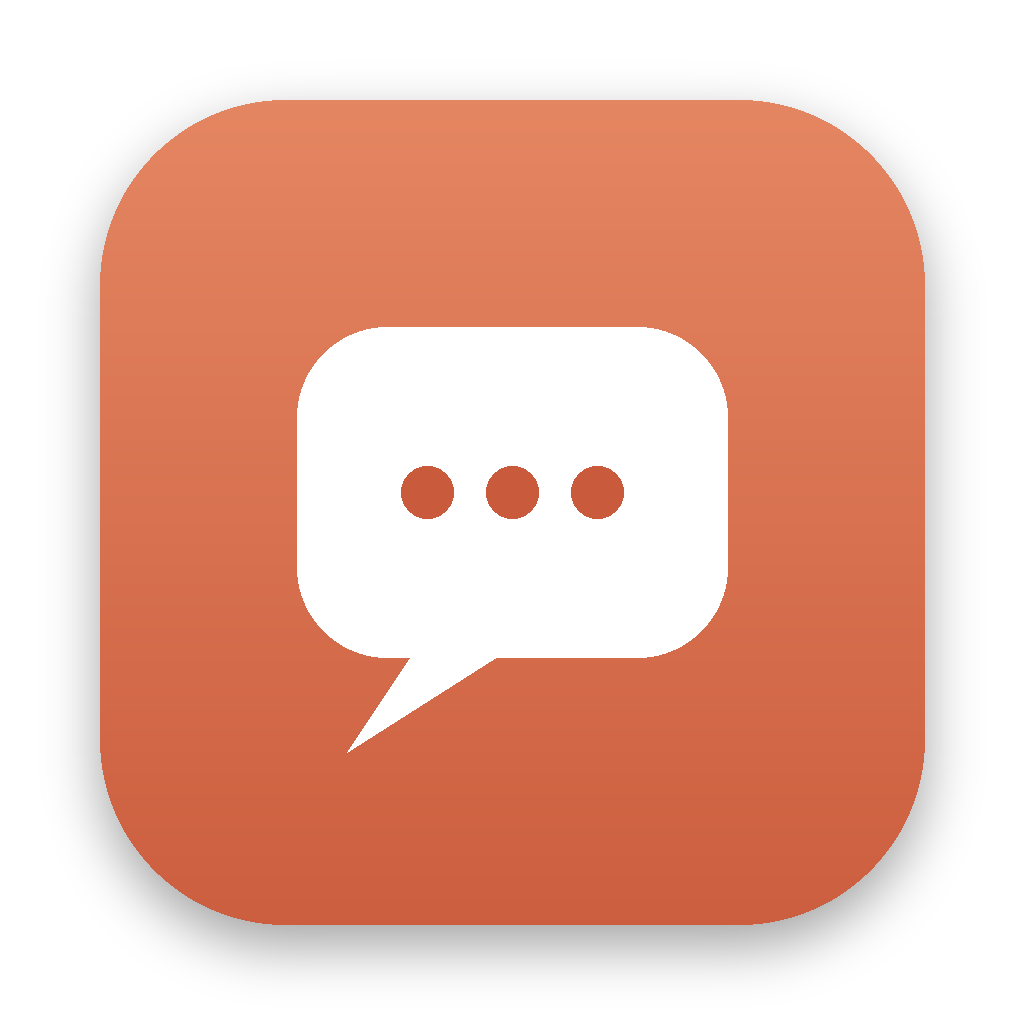
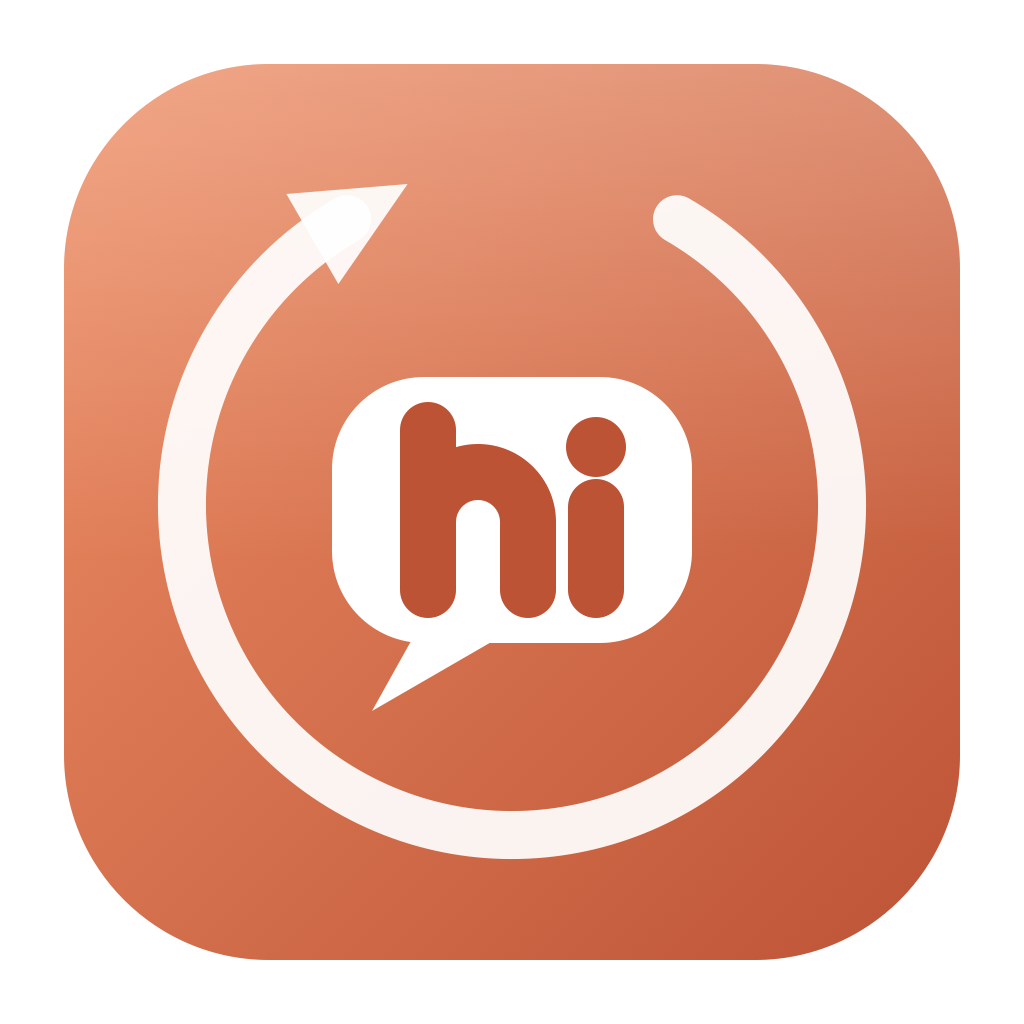
feat: ícone balão+ciclo com master CoreGraphics e glifo próprio na barra

diff --git a/scripts/render-appicon.swift b/scripts/render-appicon.swift
@@ -1,0 +1,109 @@
+// Gera o master do ícone do app (1024×1024, fundo transparente).
+// Fonte canônica do desenho: balão do "hi" envolvido pelo arco de renovação.
+// Uso: swift scripts/render-appicon.swift assets/AppIcon.png
+import CoreGraphics
+import ImageIO
+import Foundation
+import UniformTypeIdentifiers
+
+let size = 1024
+// Coordenadas de desenho em y para cima (origem embaixo à esquerda);
+// yCG(_) converte medidas tiradas do rascunho (y para baixo).
+func yCG(_ y: CGFloat) -> CGFloat { CGFloat(size) - y }
+
+guard CommandLine.arguments.count == 2 else {
+    FileHandle.standardError.write(Data("uso: render-appicon.swift <saída.png>\n".utf8))
+    exit(1)
+}
+let outURL = URL(fileURLWithPath: CommandLine.arguments[1])
+
+let space = CGColorSpace(name: CGColorSpace.sRGB)!
+let ctx = CGContext(data: nil, width: size, height: size,
+                    bitsPerComponent: 8, bytesPerRow: 0, space: space,
+                    bitmapInfo: CGImageAlphaInfo.premultipliedLast.rawValue)!
+
+func cor(_ hex: UInt32, _ alpha: CGFloat = 1) -> CGColor {
+    CGColor(srgbRed: CGFloat((hex >> 16) & 0xFF) / 255,
+            green: CGFloat((hex >> 8) & 0xFF) / 255,
+            blue: CGFloat(hex & 0xFF) / 255, alpha: alpha)
+}
+let terracotaClaro = cor(0xEE8F66)
+let terracotaEscuro = cor(0xBC5335)
+let branco = cor(0xFFFFFF)
+
+// Quadrado arredondado de fundo com gradiente diagonal + luz no topo
+let quadro = CGRect(x: 64, y: 64, width: 896, height: 896)
+let squircle = CGPath(roundedRect: quadro, cornerWidth: 205, cornerHeight: 205, transform: nil)
+
+ctx.saveGState()
+ctx.addPath(squircle)
+ctx.clip()
+ctx.drawLinearGradient(
+    CGGradient(colorsSpace: space, colors: [terracotaClaro, terracotaEscuro] as CFArray,
+               locations: [0, 1])!,
+    start: CGPoint(x: 64, y: yCG(64)), end: CGPoint(x: 960, y: yCG(960)), options: [])
+ctx.drawLinearGradient(
+    CGGradient(colorsSpace: space,
+               colors: [cor(0xFFFFFF, 0.22), cor(0xFFFFFF, 0)] as CFArray,
+               locations: [0, 1])!,
+    start: CGPoint(x: 512, y: yCG(64)), end: CGPoint(x: 512, y: yCG(557)), options: [])
+ctx.restoreGState()
+
+// Arco de renovação: 300° em sentido horário, folga no topo para a seta
+let centroArco = CGPoint(x: 512, y: yCG(505))
+ctx.setStrokeColor(cor(0xFFFFFF, 0.92))
+ctx.setLineWidth(48)
+ctx.setLineCap(.round)
+ctx.addArc(center: centroArco, radius: 330,
+           startAngle: .pi / 3, endAngle: 2 * .pi / 3, clockwise: true)
+ctx.strokePath()
+
+// Ponta da seta no fim do arco (11h), apontando para a folga
+ctx.saveGState()
+ctx.translateBy(x: 347, y: yCG(219))
+ctx.rotate(by: .pi / 6)
+ctx.setFillColor(cor(0xFFFFFF, 0.92))
+ctx.move(to: CGPoint(x: 70, y: 0))
+ctx.addLine(to: CGPoint(x: -40, y: 52))
+ctx.addLine(to: CGPoint(x: -40, y: -52))
+ctx.closePath()
+ctx.fillPath()
+ctx.restoreGState()
+
+// Balão do hi com rabinho
+ctx.setFillColor(branco)
+ctx.addPath(CGPath(roundedRect: CGRect(x: 332, y: yCG(643), width: 360, height: 266),
+                   cornerWidth: 92, cornerHeight: 92, transform: nil))
+ctx.fillPath()
+ctx.move(to: CGPoint(x: 420, y: yCG(625)))
+ctx.addLine(to: CGPoint(x: 372, y: yCG(711)))
+ctx.addLine(to: CGPoint(x: 500, y: yCG(637)))
+ctx.closePath()
+ctx.fillPath()
+
+// "hi" desenhado como traços (independe de fonte instalada)
+ctx.setStrokeColor(terracotaEscuro)
+ctx.setLineWidth(56)
+ctx.setLineCap(.round)
+ctx.move(to: CGPoint(x: 428, y: yCG(430)))            // haste do h
+ctx.addLine(to: CGPoint(x: 428, y: yCG(590)))
+ctx.strokePath()
+ctx.move(to: CGPoint(x: 428, y: yCG(522)))            // arco do h
+ctx.addArc(center: CGPoint(x: 478, y: yCG(522)), radius: 50,
+           startAngle: .pi, endAngle: 0, clockwise: true)
+ctx.addLine(to: CGPoint(x: 528, y: yCG(590)))
+ctx.strokePath()
+ctx.move(to: CGPoint(x: 596, y: yCG(507)))            // haste do i
+ctx.addLine(to: CGPoint(x: 596, y: yCG(590)))
+ctx.strokePath()
+ctx.setFillColor(terracotaEscuro)                     // pingo do i
+ctx.fillEllipse(in: CGRect(x: 596 - 30, y: yCG(447) - 30, width: 60, height: 60))
+
+let imagem = ctx.makeImage()!
+let destino = CGImageDestinationCreateWithURL(outURL as CFURL, UTType.png.identifier as CFString, 1, nil)!
+CGImageDestinationAddImage(destino, imagem, nil)
+guard CGImageDestinationFinalize(destino) else {
+    FileHandle.standardError.write(Data("falha ao gravar \(outURL.path)\n".utf8))
+    exit(1)
+}
+print("gerado: \(outURL.path)")

diff --git a/Sources/HiClaude/MenuBarGlyph.swift b/Sources/HiClaude/MenuBarGlyph.swift
@@ -1,0 +1,103 @@
+import AppKit
+
+/// Glifo próprio da barra de menu: o balão do hi envolvido pelo arco de
+/// renovação, em três estados — contorno (ocioso), preenchido (Janela ativa)
+/// e exclamação no balão (problema). Template image: a barra tinge conforme
+/// o tema; pausado continua sendo opacidade aplicada pela view.
+enum MenuBarGlyph {
+    enum State: CaseIterable {
+        case idle, active, problem
+
+        /// Mesma prioridade do símbolo antigo: problema > janela ativa > ocioso.
+        init(hasProblem: Bool, hasActiveWindow: Bool) {
+            if hasProblem { self = .problem }
+            else if hasActiveWindow { self = .active }
+            else { self = .idle }
+        }
+    }
+
+    static func image(for state: State) -> NSImage {
+        let image = NSImage(size: NSSize(width: 18, height: 18), flipped: true) { _ in
+            NSColor.black.setFill()
+            NSColor.black.setStroke()
+            switch state {
+            case .idle: drawCycle(); drawBubble(filled: false)
+            case .active: drawCycle(); drawBubble(filled: true)
+            case .problem: drawProblemBubble()
+            }
+            return true
+        }
+        image.isTemplate = true
+        return image
+    }
+
+    /// Arco de renovação (290° em sentido horário) com seta apontando para a
+    /// folga no topo. Coordenadas em y para baixo (imagem flipped).
+    private static func drawCycle() {
+        let center = NSPoint(x: 9, y: 9)
+        let radius: CGFloat = 6.15
+        let arc = NSBezierPath()
+        // Ângulos no espaço já invertido: crescer o ângulo = horário na tela.
+        arc.appendArc(withCenter: center, radius: radius,
+                      startAngle: -55, endAngle: 235, clockwise: false)
+        arc.lineWidth = 1.45
+        arc.lineCapStyle = .round
+        arc.stroke()
+
+        // Ponta da seta no fim do arco (11h), tangente ao sentido do giro.
+        let end = NSPoint(x: center.x + radius * cos(235 * .pi / 180),
+                          y: center.y + radius * sin(235 * .pi / 180))
+        let head = NSBezierPath()
+        head.move(to: NSPoint(x: 1.8, y: 0))
+        head.line(to: NSPoint(x: -1.1, y: 1.4))
+        head.line(to: NSPoint(x: -1.1, y: -1.4))
+        head.close()
+        var transform = AffineTransform(translationByX: end.x, byY: end.y)
+        transform.rotate(byDegrees: -35)
+        head.transform(using: transform)
+        head.fill()
+    }
+
+    /// Balão pequeno dentro do arco, com rabinho; contorno ou preenchido.
+    private static func drawBubble(filled: Bool) {
+        let tail = NSBezierPath()
+        tail.move(to: NSPoint(x: 7.1, y: 11.1))
+        tail.line(to: NSPoint(x: 6.3, y: 12.9))
+        tail.line(to: NSPoint(x: 8.7, y: 11.3))
+        tail.close()
+        tail.fill()
+
+        if filled {
+            NSBezierPath(roundedRect: NSRect(x: 5.55, y: 6.45, width: 6.9, height: 4.8),
+                         xRadius: 1.5, yRadius: 1.5).fill()
+        } else {
+            let outline = NSBezierPath(
+                roundedRect: NSRect(x: 6.1, y: 7.0, width: 5.8, height: 3.7),
+                xRadius: 1.2, yRadius: 1.2)
+            outline.lineWidth = 1.1
+            outline.stroke()
+        }
+    }
+
+    /// Estado de problema: balão grande com exclamação vazada, sem arco —
+    /// a ausência do ciclo também sinaliza que a renovação não está girando.
+    private static func drawProblemBubble() {
+        let bubble = NSBezierPath(
+            roundedRect: NSRect(x: 3, y: 3.4, width: 12, height: 9.4),
+            xRadius: 2.6, yRadius: 2.6)
+        bubble.windingRule = .evenOdd
+        bubble.append(NSBezierPath(
+            roundedRect: NSRect(x: 8.3, y: 5.0, width: 1.4, height: 3.8),
+            xRadius: 0.7, yRadius: 0.7))
+        bubble.append(NSBezierPath(
+            ovalIn: NSRect(x: 8.2, y: 9.6, width: 1.6, height: 1.6)))
+        bubble.fill()
+
+        let tail = NSBezierPath()
+        tail.move(to: NSPoint(x: 5.3, y: 12.6))
+        tail.line(to: NSPoint(x: 4.5, y: 14.9))
+        tail.line(to: NSPoint(x: 7.6, y: 12.8))
+        tail.close()
+        tail.fill()
+    }
+}

diff --git a/Tests/HiClaudeTests/MenuBarGlyphTests.swift b/Tests/HiClaudeTests/MenuBarGlyphTests.swift
@@ -1,0 +1,35 @@
+import XCTest
+@testable import HiClaude
+
+final class MenuBarGlyphTests: XCTestCase {
+    // Mesma semântica do símbolo antigo: problema > janela ativa > ocioso.
+    func testProblemaTemPrioridadeSobreJanelaAtiva() {
+        XCTAssertEqual(MenuBarGlyph.State(hasProblem: true, hasActiveWindow: true), .problem)
+        XCTAssertEqual(MenuBarGlyph.State(hasProblem: true, hasActiveWindow: false), .problem)
+    }
+
+    func testJanelaAtivaSemProblemaEhActive() {
+        XCTAssertEqual(MenuBarGlyph.State(hasProblem: false, hasActiveWindow: true), .active)
+    }
+
+    func testSemJanelaESemProblemaEhIdle() {
+        XCTAssertEqual(MenuBarGlyph.State(hasProblem: false, hasActiveWindow: false), .idle)
+    }
+
+    // Template image é o que faz a barra tingir o glifo conforme o tema.
+    func testImagensSaoTemplateNoTamanhoDaBarra() {
+        for state in MenuBarGlyph.State.allCases {
+            let image = MenuBarGlyph.image(for: state)
+            XCTAssertTrue(image.isTemplate, "\(state) deveria ser template")
+            XCTAssertEqual(image.size, NSSize(width: 18, height: 18))
+        }
+    }
+
+    func testVariantesDesenhamGlifosDistintos() {
+        let tiffs = MenuBarGlyph.State.allCases.map { MenuBarGlyph.image(for: $0).tiffRepresentation }
+        for data in tiffs { XCTAssertNotNil(data) }
+        XCTAssertNotEqual(tiffs[0], tiffs[1])
+        XCTAssertNotEqual(tiffs[0], tiffs[2])
+        XCTAssertNotEqual(tiffs[1], tiffs[2])
+    }
+}

diff --git a/Sources/HiClaude/MenuContent.swift b/Sources/HiClaude/MenuContent.swift
@@ -1,14 +1,15 @@
 import SwiftUI
 
-/// Label da barra: ícone preenchido quando qualquer conta está com janela ativa;
-/// exclamação em erro; esmaecido quando pausado. Texto opcional = janela que
-/// vence primeiro entre as contas em renovação.
+/// Label da barra: glifo próprio (balão + arco de renovação) preenchido quando
+/// qualquer conta está com janela ativa; exclamação em erro; esmaecido quando
+/// pausado. Texto opcional = janela que vence primeiro entre as contas em
+/// renovação.
 struct MenuBarLabel: View {
     @ObservedObject var state: AppState
 
     var body: some View {
         HStack(spacing: 4) {
-            Image(systemName: symbol)
+            Image(nsImage: MenuBarGlyph.image(for: glyphState))
                 .opacity(state.paused && !hasProblem ? 0.5 : 1)
             if state.showRemainingInBar, let end = soonestEnd {
                 Text(Fmt.remaining(until: end, from: Date()))
@@ -20,9 +21,8 @@ struct MenuBarLabel: View {
         state.nextRenewals.values.filter { $0 > Date() }.min()
     }
 
-    private var symbol: String {
-        if hasProblem { return "exclamationmark.bubble" }
-        return soonestEnd != nil ? "bubble.left.fill" : "bubble.left"
+    private var glyphState: MenuBarGlyph.State {
+        .init(hasProblem: hasProblem, hasActiveWindow: soonestEnd != nil)
     }
 
     private var hasProblem: Bool { !state.missingCLIs.isEmpty || lastEventFailed }